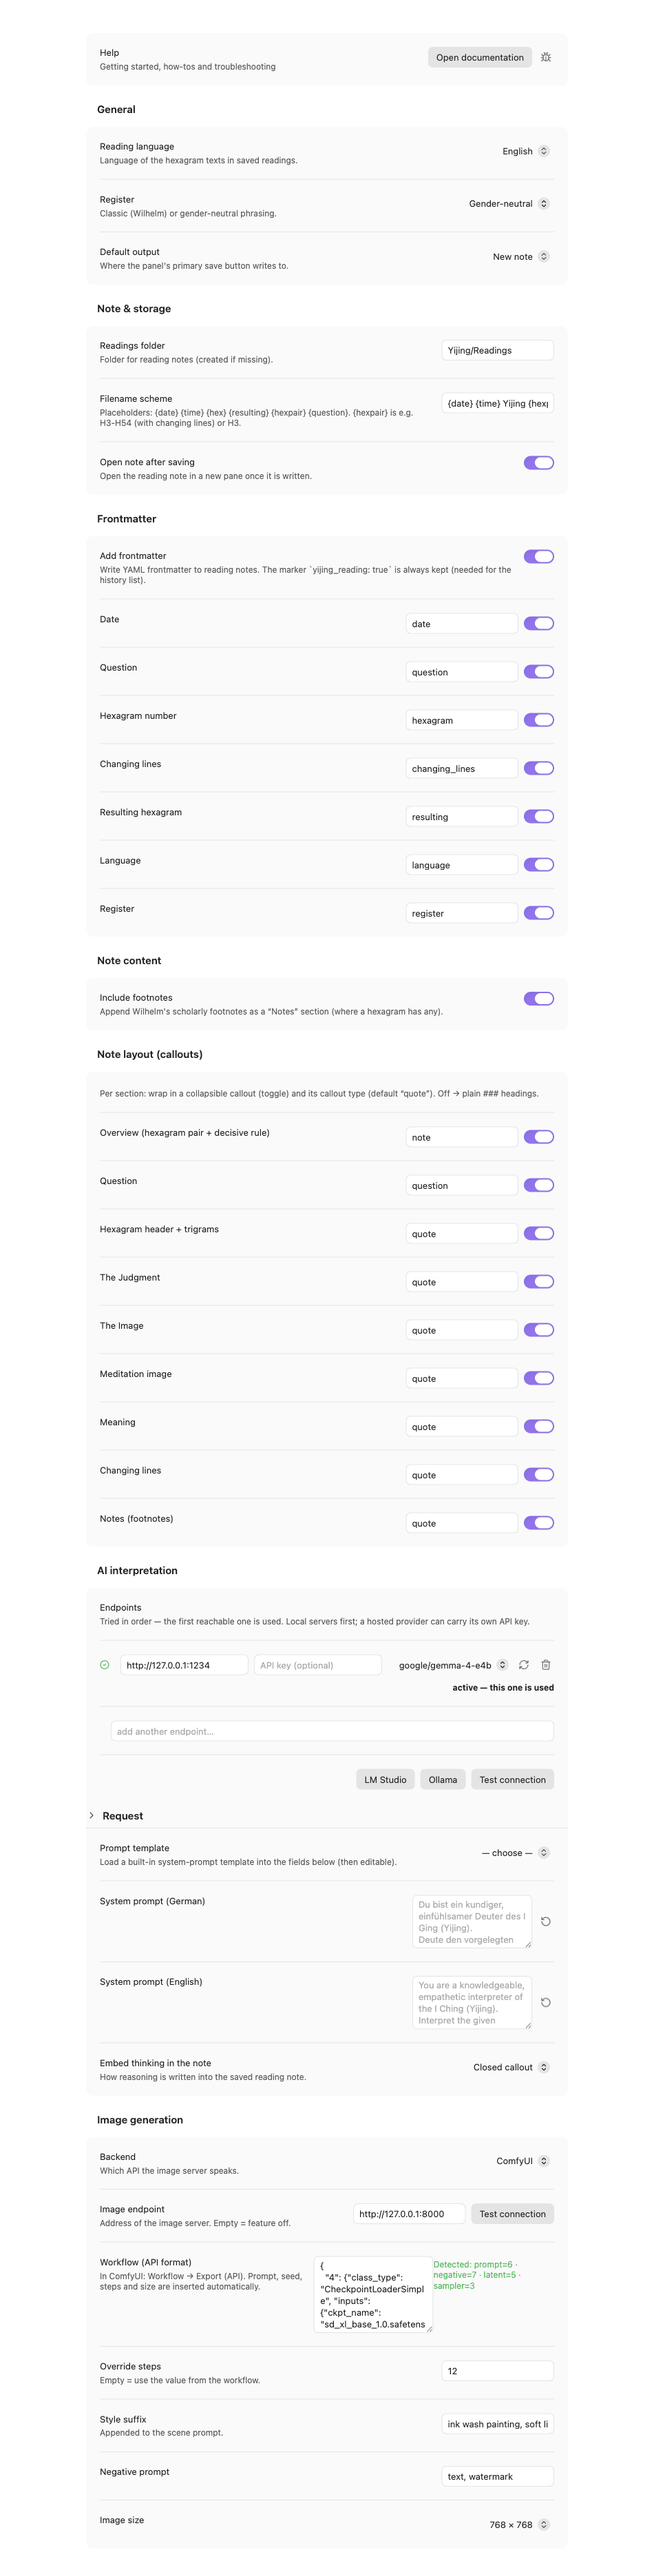
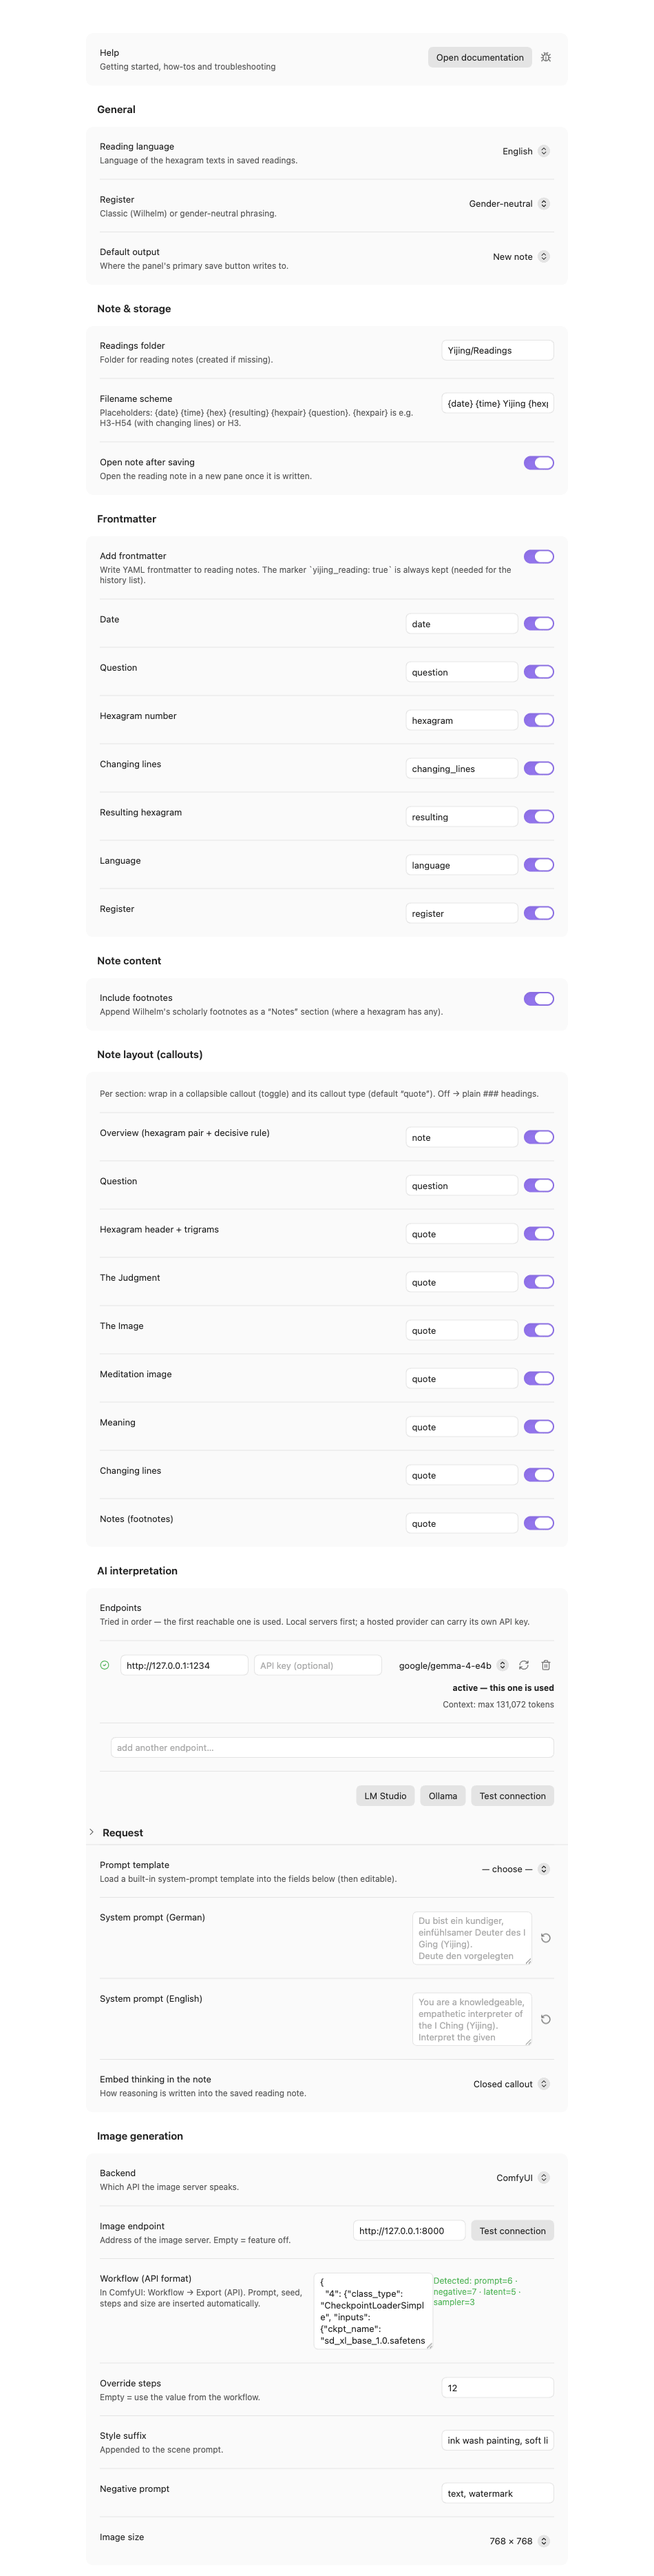
docs: CHANGELOG Welle 18, Einstellungsbild mit Kontextlänge je Endpunkt-Zeile

diff --git a/CHANGELOG.md b/CHANGELOG.md
@@ -6,6 +6,14 @@ All notable changes to this project are documented here. The format follows
 
 ## [Unreleased]
 
+### Changed
+
+- **The endpoint row shows the model's context length again.** Under a reachable row with a model it reads "Context: loaded N · max M tokens", or "Context: max M tokens" / "Context: loaded N tokens" when the server names only one of the two; nothing is shown when it names neither. It comes from the shared endpoint list now, not from a line of this plugin. The lookup asks LM Studio first and Ollama second (new), and every attempt gives up after 5 s, so a server that accepts the connection and never answers no longer holds the settings.
+- **The model dropdown of an endpoint row offers "— (server picks)" again.** Choosing it removes the model from that row, so the server decides (EN "— (server picks)", DE "— (Server wählt)"). In 0.13.0 a model you had set could not be cleared in the dropdown.
+- **New notes get a different file name when the question or the filename scheme contains characters a file system rejects.** Until now they were deleted (`Re: A/B` → `Re AB`, `Was jetzt?` → `Was jetzt`); now each becomes `_` (`Re_ A_B`, `Was jetzt_`), in the question **and** in the filename scheme (`: / # ^ [ ] \ ? * " < > |`). Existing notes keep their names; a name that already exists still gets ` (2)`. The question is still cut to 48 characters.
+- **The tooltips of the image endpoint's status icon use the wording of the shared endpoint list** (EN/DE), e.g. "Connection refused — server not running or wrong port." and, for an unknown failure, "Not reachable" without a dangling dash. They no longer come from this plugin's own table.
+- **Vendored `obsidian-kit` 0.56.0 (was 0.53.0) and `code-kit` 0.23.0 (was 0.21.0).** What a user sees from the skipped releases: removing a reply's `<think>` block no longer takes seconds on degenerate answers (code-kit 0.22.0); long streamed replies render faster and leak fewer remote sources (obsidian-kit 0.54.0, the DOM guard works incrementally); an unfinished render block is no longer cut off when the panel closes (obsidian-kit 0.55.0). The new endpoint-row texts (context length, "server picks", status tooltips) are in obsidian-kit 0.56.0.
+
 ## [0.13.0] — 2026-10-11
 
 ### Changed
